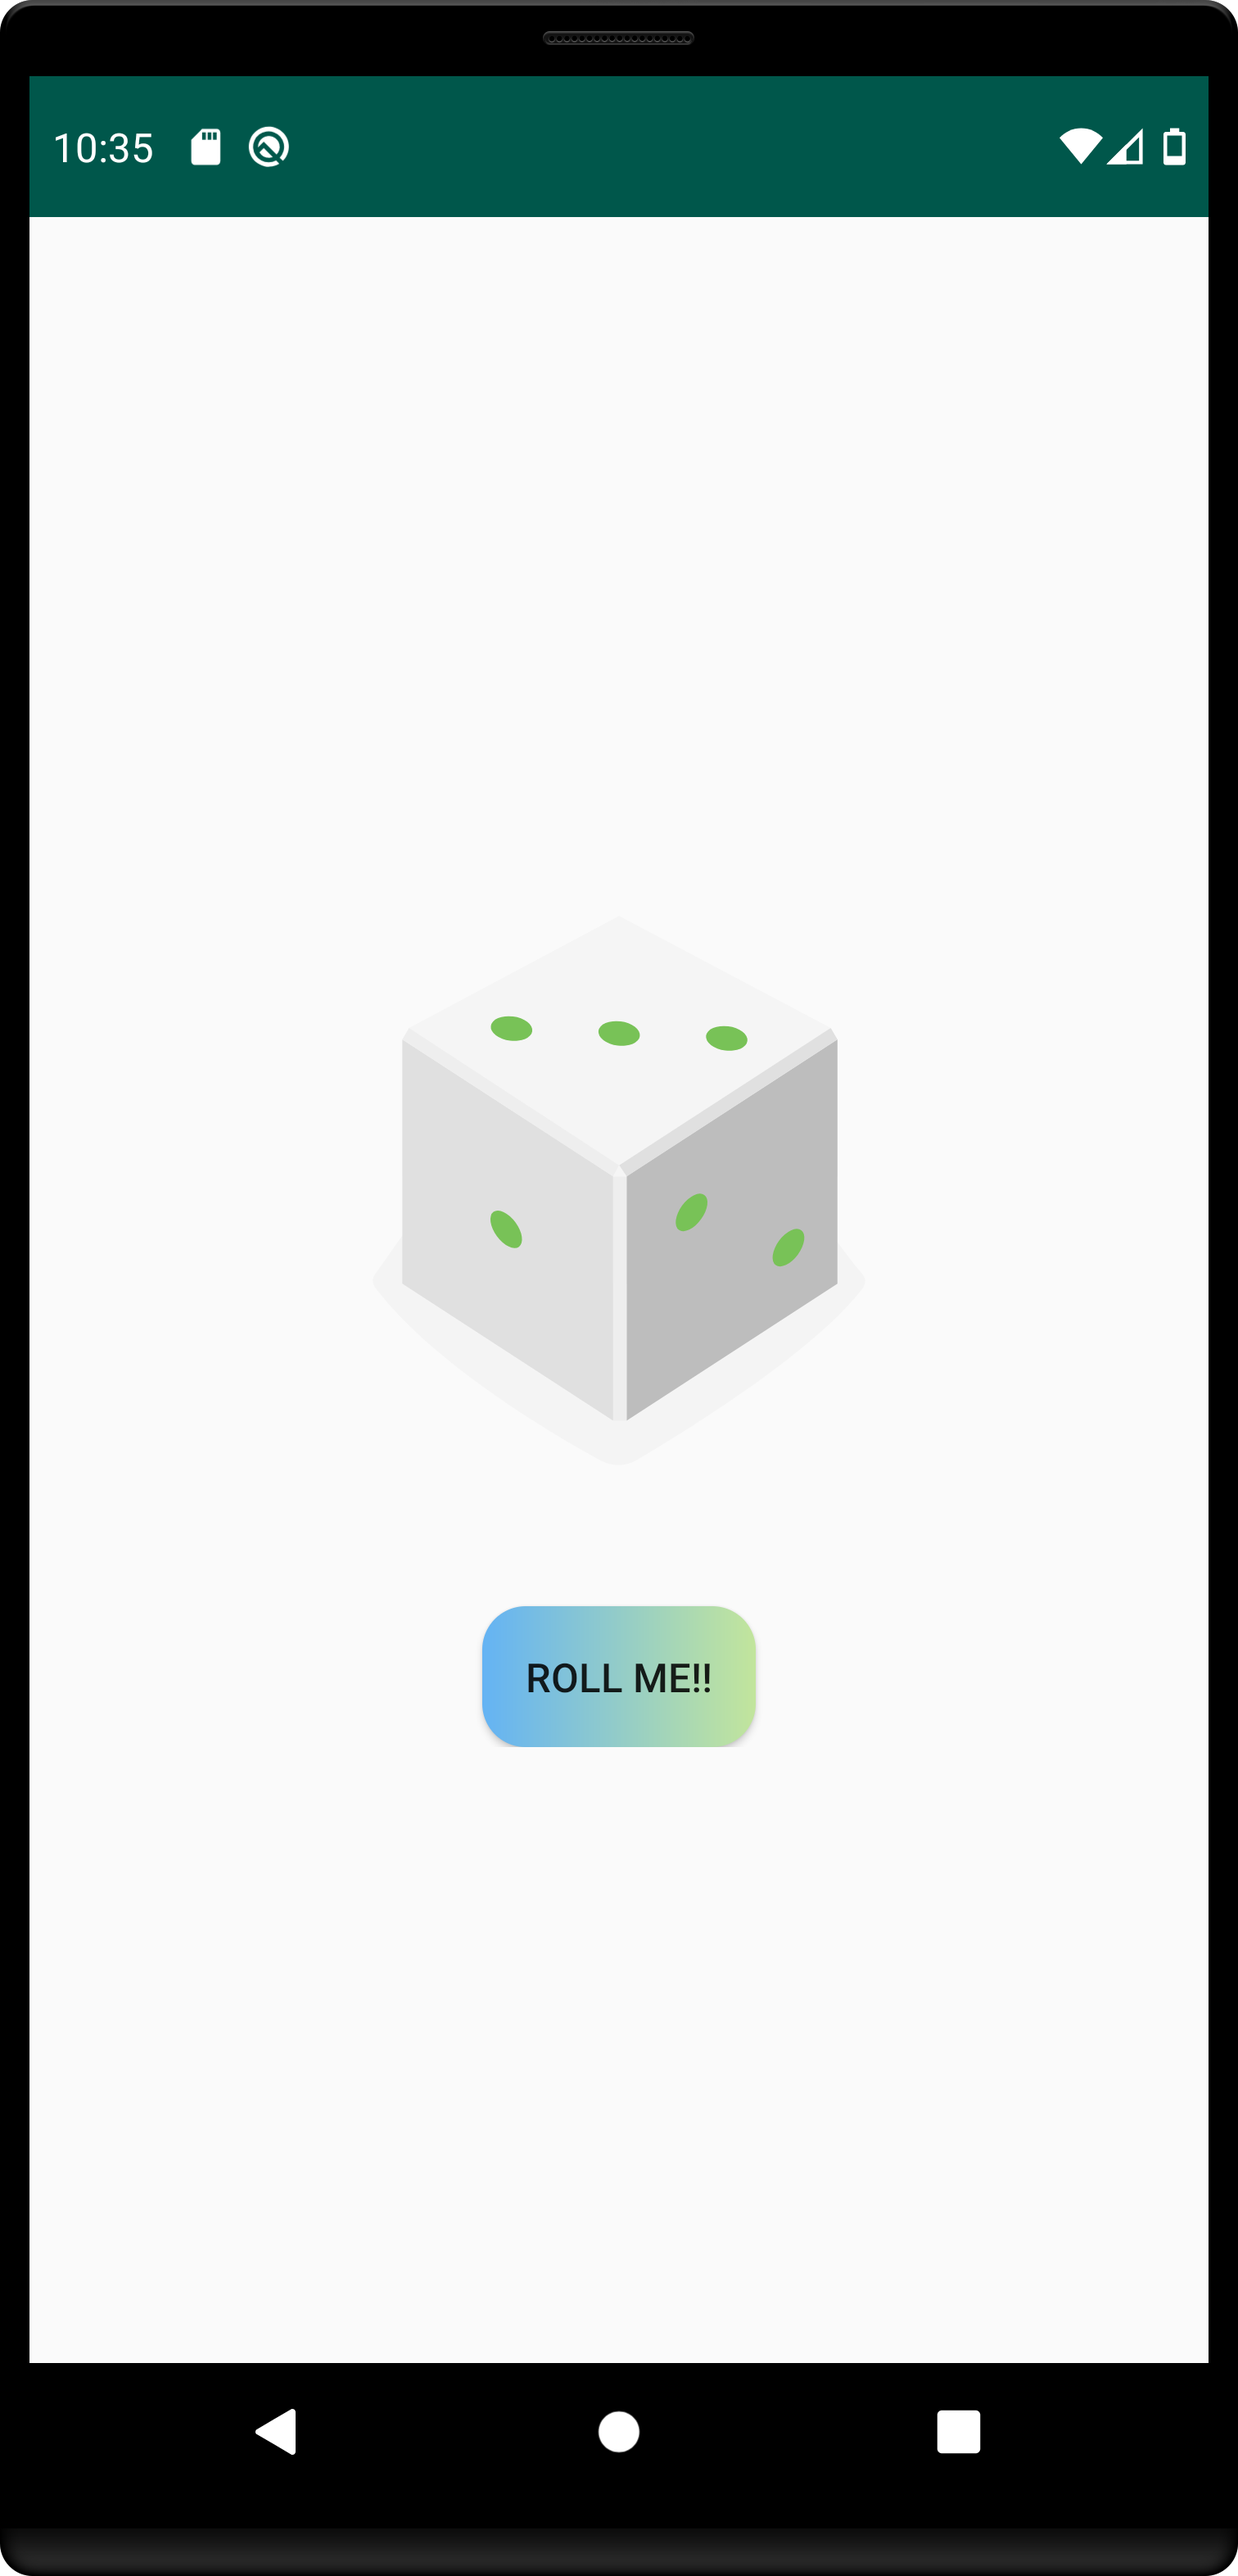
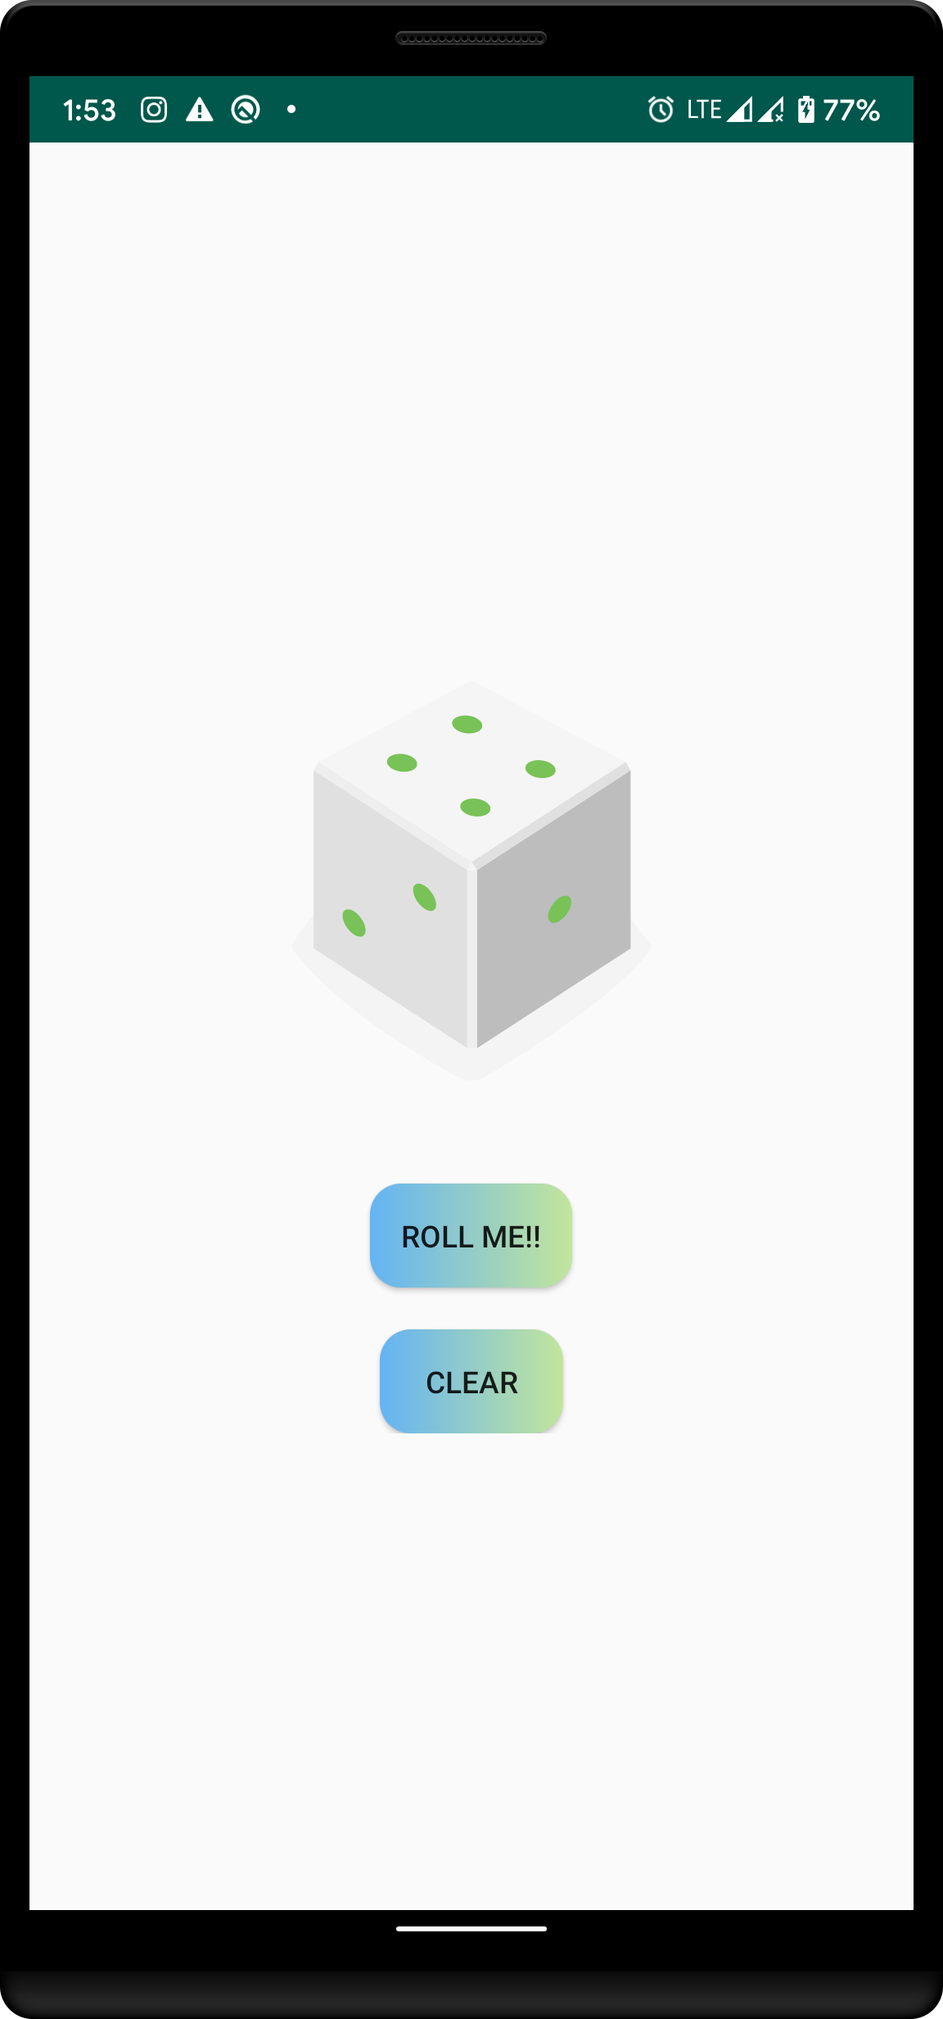
Add clear button

diff --git a/android/DiceRoller/app/src/main/java/tk/imagingens/diceroller/MainActivity.kt b/android/DiceRoller/app/src/main/java/tk/imagingens/diceroller/MainActivity.kt
@@ -2,11 +2,13 @@ package tk.imagingens.diceroller
 
 import androidx.appcompat.app.AppCompatActivity
 import android.os.Bundle
+import android.view.View
 import android.widget.Button
 import android.widget.ImageView
 import android.widget.TextView
 import android.widget.Toast
 import androidx.appcompat.app.ActionBar
+import kotlinx.android.synthetic.main.activity_main.*
 import java.util.*
 
 class MainActivity : AppCompatActivity() {
@@ -16,15 +18,23 @@ class MainActivity : AppCompatActivity() {
         super.onCreate(savedInstanceState)
         setContentView(R.layout.activity_main)
         val rollButton: Button = findViewById(R.id.roll_button)
+        val clearButton: Button = findViewById(R.id.clear_button)
+
         rollButton.setOnClickListener() {
             Toast.makeText(this, "Rolled!", Toast.LENGTH_SHORT).show()
             rollDice()
             rollButton.text = getString(R.string.RollIt)
         }
+        clearButton.setOnClickListener(){
+            clearDice()
+        }
         diceImage = findViewById(R.id.dice_image)
     }
-
+    private fun clearDice(){
+        diceImage.setImageResource(R.drawable.empty_dice)
+    }
     private fun rollDice() {
+        clear_button.visibility = View.VISIBLE
         val randomInt = Random().nextInt(6) + 1
         val drawableResource = when (randomInt) {
             1 -> R.drawable.dice_1
